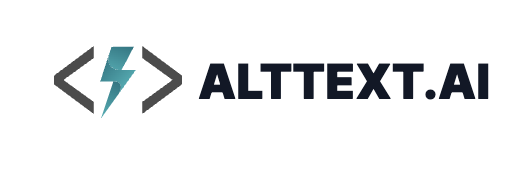
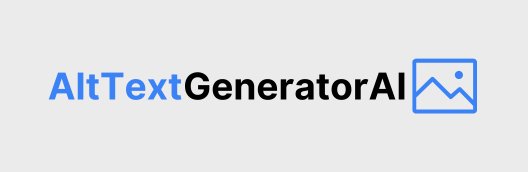
fidsss

Changed region(s): [[0.0909, 0.2616, 0.9394, 0.6686]]

diff --git a/src/entrypoints/ConfigScreen.tsx b/src/entrypoints/ConfigScreen.tsx
@@ -42,14 +42,14 @@ export default function ConfigScreen({ ctx }: Props) {
           required
           name="altTextAPIKey"
           id="altTextAPIKey"
-          label="Alt Text API Key"
+          label="AltTextGeneratorAI API Key"
           value={apiKey}
           onChange={(newValue) => setApiKey(newValue)}
         />
         <p>
           You can get your API key by going to{' '}
-          <a href="https://alttext.ai/account/api_keys" target="_blank">
-            https://alttext.ai/account/api_keys
+          <a href="https://alttextgeneratorai.com" target="_blank">
+          https://alttextgeneratorai.com
           </a>
         </p>
       </div>
